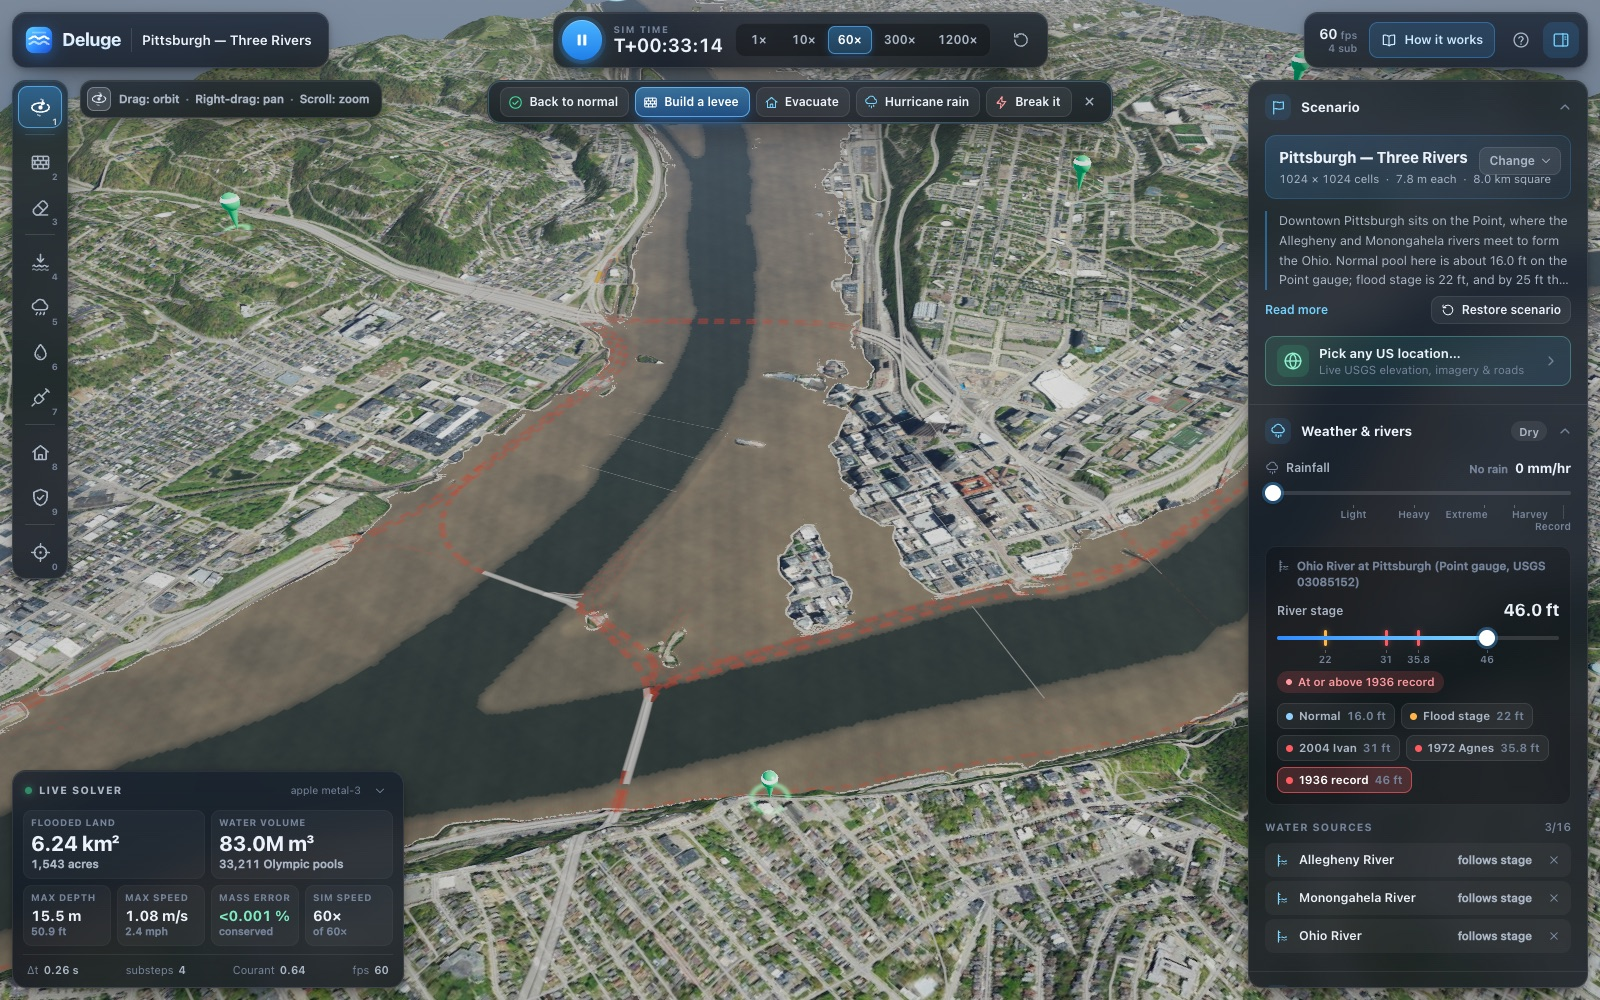
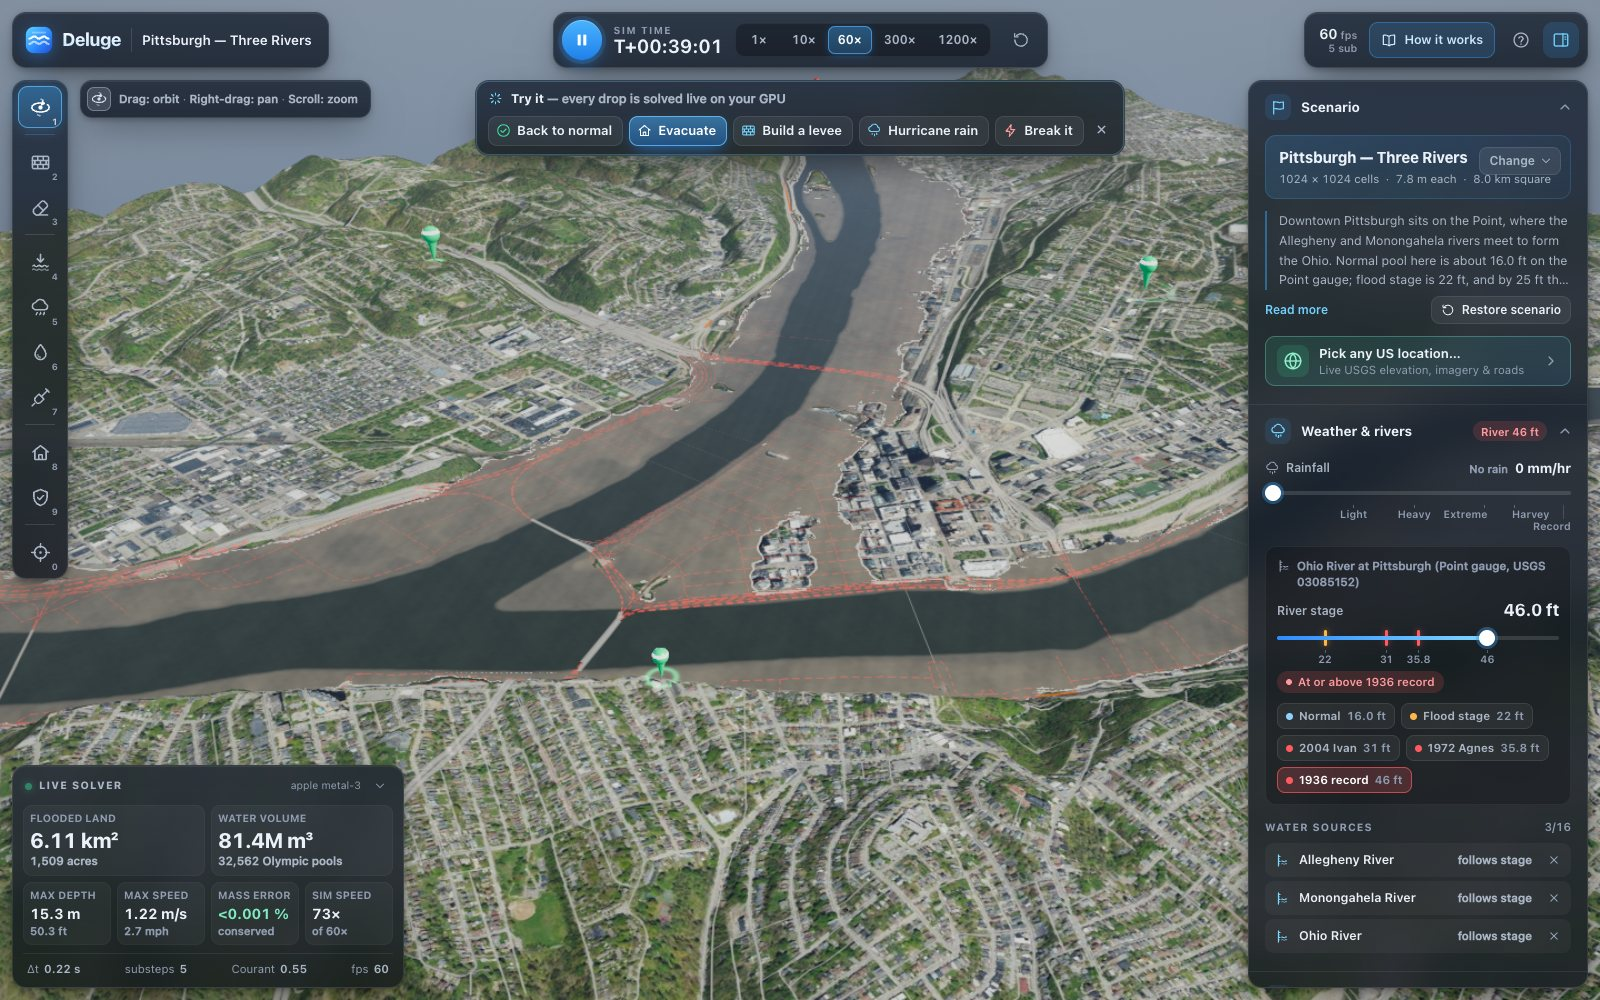
WIP: update README.md docs src/app src/render

diff --git a/src/render/shaders/water.ts b/src/render/shaders/water.ts
@@ -286,7 +286,8 @@ fn fsWater(in: WOut) -> @location(0) vec4f {
   // Two incommensurate scales so the tiling never lines up.
   let slick = ((rM.w - 0.5) * 0.6 + (slickFar - 0.5) * 0.8 + (rA.w - 0.5) * 0.3 * detailFade) * 0.55;
   let riverSed = mix(vec3f(0.115, 0.088, 0.054), vec3f(0.032, 0.040, 0.027), deep);
-  let floodSed = mix(vec3f(0.185, 0.150, 0.095), vec3f(0.130, 0.112, 0.076), smoothstep(0.5, 5.0, thick));
+  // Slightly lighter and cooler than the imagery's khaki roofs and bare ground, so flood extent reads from far away.
+  let floodSed = mix(vec3f(0.205, 0.178, 0.128), vec3f(0.140, 0.128, 0.098), smoothstep(0.5, 5.0, thick));
   let sediment = mix(riverSed, floodSed, floodMix) * (1.0 + slick * mix(0.6, 1.0, turbulence));
   let body = sediment * lightIn;
   // Thin rain sheet-flow (a few cm over grass or pavement) is not visible from the air: fade it in with depth.
@@ -317,8 +318,10 @@ fn fsWater(in: WOut) -> @location(0) vec4f {
     let edge = smoothstep(0.6, 1.4, pxFromShore) * (1.0 - smoothstep(2.4, 3.6, pxFromShore))
              * smoothstep(0.03, 0.08, hInside) * (1.0 - smoothstep(0.005, 0.03, hOutside)) * smoothstep(0.5, 0.9, floodLand);
     let edgeCol = vec3f(0.80, 0.77, 0.68) * lightIn * 0.62;
-    rgb = mix(rgb, edgeCol, edge * 0.75);
-    alpha = mix(alpha, 1.0, edge * 0.75);
+    // Stronger from far away (beyond ~2 km), where the line is what outlines the flood against the city.
+    let edgeK = mix(0.75, 0.92, smoothstep(1500.0, 3500.0, distance(in.world, F.camPos)));
+    rgb = mix(rgb, edgeCol, edge * edgeK);
+    alpha = mix(alpha, 1.0, edge * edgeK);
   }
 
   if (mode != 0) {

diff --git a/src/app/App.ts b/src/app/App.ts
@@ -115,13 +115,20 @@ export class App {
     this.errors.attachStore(this.store);
 
     this.evac = new EvacController(this.router, this.store, this.errors);
+    let maskKey = '';
     this.protection = new ProtectionController({
       publish: (result) => {
         const bridge = bridgeFor(this.store);
         bridge.setProtection(
           result && { wallCells: result.wallCells, areaM2: result.areaM2, roadMeters: result.roadMeters, roadEdges: result.roadEdges, level: result.level },
         );
-        (this.renderer as Partial<DelugeRendererAPI> | null)?.setProtectedMask?.(result?.cells ? result.mask : null);
+        // Upload the glow mask only when the protected land changed (a 1024² upload once a second would also wake an
+        // idle, paused view every second).
+        const b = result?.bounds;
+        const key = result?.cells && b ? `${result.cells}|${b.x0}|${b.y0}|${b.x1}|${b.y1}` : '';
+        if (key === maskKey) return;
+        maskKey = key;
+        (this.renderer as Partial<DelugeRendererAPI> | null)?.setProtectedMask?.(key ? result!.mask : null);
         this.requestRender();
       },
     });

diff --git a/src/app/protection.ts b/src/app/protection.ts
@@ -336,7 +336,10 @@ export class ProtectionController {
    * erased while paused bring no new readback). `force` skips the interval.
    */
   tick(now: number, input: () => ProtectionInput | null, force = false): void {
-    const due = now - this.lastRun >= (this.pending ? this.intervalMs : 2 * this.intervalMs);
+    // A heavy run (a rising flood spreads the level over a lot of shallow land) spaces the next ones out, up to 3×:
+    // at most ~1–2 % of main-thread time.
+    const interval = Math.max(this.intervalMs, Math.min(3 * this.intervalMs, this.lastMs * 80));
+    const due = now - this.lastRun >= (this.pending ? interval : 2 * interval);
     if (!force && !due) return;
     const data = input();
     if (!data) return;

diff --git a/README.md b/README.md
@@ -42,6 +42,8 @@ URL options: `?preset=pittsburgh|johnstown|ellicott|sandbox`, or any US area wit
 4. **Break it** (Try-it strip or How it works) swaps in a textbook explicit solver and drops one small splash mid-view;
    it blows up within seconds. **Restore** recovers.
 
+![The one-click levee along the North Shore at the 1936 crest: the land it keeps dry is green, the Try-it strip counts 135 acres and 11 km of streets](docs/levee-north-shore.jpg)
+
 On a live area with no river crossing the map edge (picked with *Pick any US location*), the first button drops a
 thunderstorm over the view instead.
 
